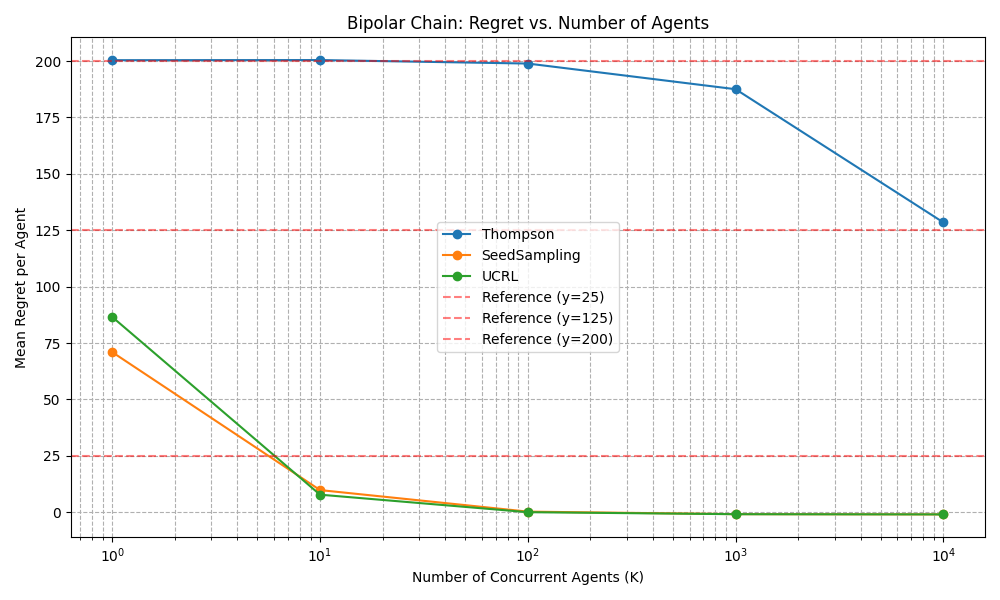
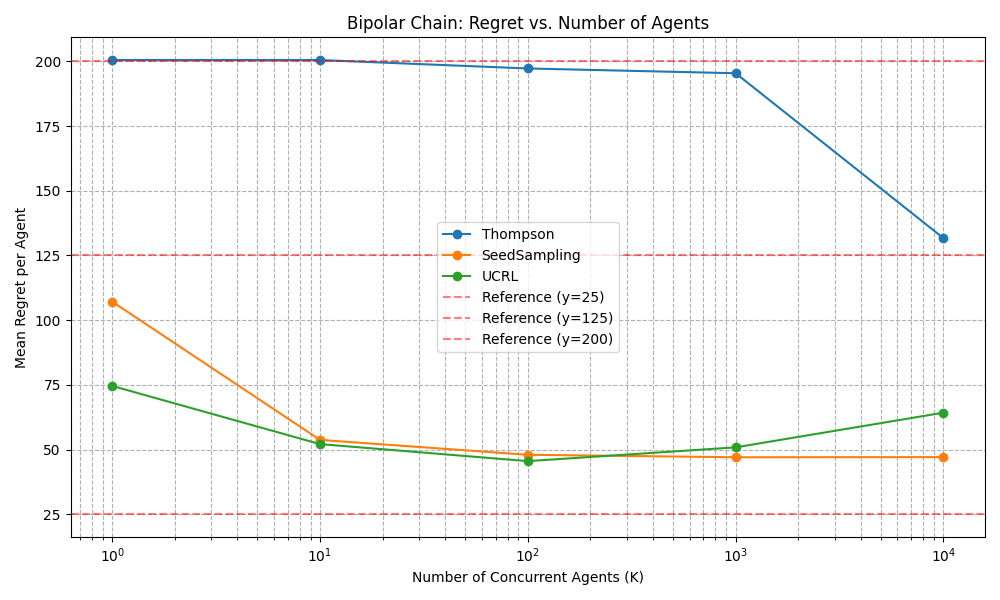
Success in bipolar chain!

diff --git a/bipolar_succss_toy.py b/bipolar_succss_toy.py
@@ -102,35 +102,38 @@ def simulate_bipolar_chain_for_K_agents(K, N, H, algorithm, n_episodes=50):
         #logging.info("*" * 20 + f" episode {episode} " + "*" * 20)
         theta = {'L': theta_L, 'R': theta_R}
         env = BipolarChainEnv(N, theta)
+        if algorithm == 'UCRL' or algorithm == 'SeedSampling':
+            # Initialize agents, states, and logs
+            agents = [Agent(k, algorithm, env) for k in range(K)]
+            positions = [env.start] * K
+            directions = [agent.choose_direction() for agent in agents]
+            rewards = [0] * K
+            terminated = [False] * K
 
-        # Initialize agents, states, and logs
-        agents = [Agent(k, algorithm, env) for k in range(K)]
-        positions = [env.start] * K
-        directions = [agent.choose_direction() for agent in agents]
-        rewards = [0] * K
-        terminated = [False] * K
+            for t in range(H):
+                for k in range(K):
+                    if terminated[k]:
+                        continue
 
-        # for t in range(H):
-        #     for k in range(K):
-        #         if terminated[k]:
-        #             continue
+                    # If the environment has been revealed, switch direction
+                    if env.revealed:
+                        directions[k] = env.revealed_optimal_direction
 
-        #         # If the environment has been revealed, switch direction
-        #         if env.revealed:
-        #             directions[k] = env.revealed_optimal_direction
+                    next_pos = positions[k] - 1 if directions[k] == 'L' else positions[k] + 1
+                    next_pos_adj = max(0, min(N - 1, next_pos))
+                    if next_pos_adj != next_pos:
+                        raise ValueError(f"algorithm={algorithm}, t={t}, k={k}, next_pos={next_pos}, next_pos_adj={next_pos_adj}")
+                        #next_pos = next_pos_adj
 
-        #         next_pos = positions[k] - 1 if directions[k] == 'L' else positions[k] + 1
-        #         next_pos_adj = max(0, min(N - 1, next_pos))
-        #         if next_pos_adj != next_pos:
-        #             raise ValueError(f"algorithm={algorithm}, t={t}, k={k}, next_pos={next_pos}, next_pos_adj={next_pos_adj}")
-        #             #next_pos = next_pos_adj
+                    reward, terminal = env.get_reward(next_pos, k, t)
+                    rewards[k] += reward
+                    positions[k] = next_pos
+                    terminated[k] = terminal
+        elif algorithm == 'Thompson':
+            agents = [Agent(k, algorithm, env) for k in range(K)]
+            rewards = [agent.act(H) for agent in agents]
 
-        #         reward, terminal = env.get_reward(next_pos, k, t)
-        #         rewards[k] += reward
-        #         positions[k] = next_pos
-        #         terminated[k] = terminal
-        agents = [Agent(k, algorithm, env) for k in range(K)]
-        rewards = [agent.act(H) for agent in agents]
+        
         total_rewards_all_agents = sum(rewards)
         mean_reward = total_rewards_all_agents / K
         mean_regret = r_star - mean_reward
@@ -151,8 +154,8 @@ H = 150
 # When any of the K agents traverses e_L, or e_R for the first time, all K agents learn the true values of theta_L, theta_r
 
 
-K_values = [1, 10, 100, 1000, 10000] #list(range(1,101, 10))#
-algorithms = [ 'Thompson', 'SeedSampling', "UCRL"] #['SeedSampling'] #
+K_values = [1, 10, 100, 1000, 10000] 
+algorithms = [ 'Thompson', 'SeedSampling', "UCRL"]
 
 # Run simulation
 results = {}
